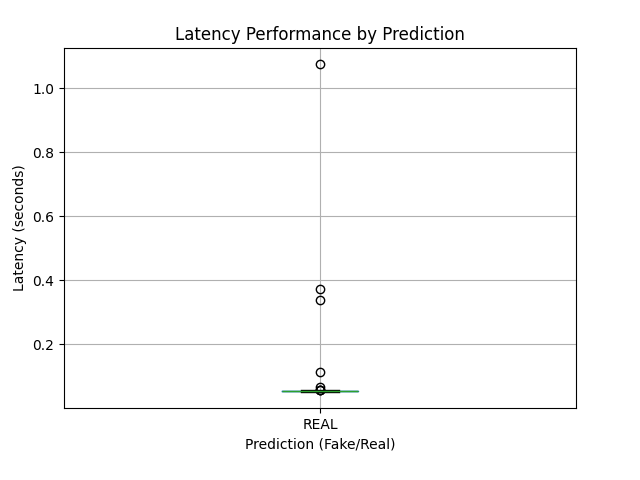
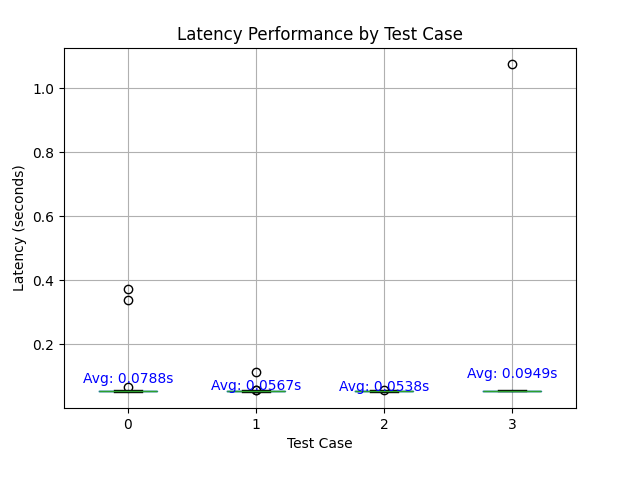
updated plot

diff --git a/box_plot.py b/box_plot.py
@@ -4,13 +4,21 @@ import matplotlib.pyplot as plt
 # Load the CSV file
 df = pd.read_csv('latency_results.csv')
 
-# Create a boxplot for latency
-plt.figure(figsize=(10, 6))
-df.boxplot(column='Latency (s)', by='Prediction')
-plt.title('Latency Performance by Prediction')
-plt.suptitle('')  # Suppress the automatic title to clean up the plot
-plt.xlabel('Prediction (Fake/Real)')
+df['Test Case'] = df.groupby('Text').ngroup()
+
+# Create a boxplot for each test case
+plt.figure(figsize=(12, 8))
+df.boxplot(column='Latency (s)', by='Test Case')
+plt.title('Latency Performance by Test Case')
+plt.suptitle('')
+plt.xlabel('Test Case')
 plt.ylabel('Latency (seconds)')
 
+# Calculate and annotate the average performance for each test case
+avg_latency = df.groupby('Test Case')['Latency (s)'].mean()
+
+for test_case, avg in avg_latency.items():
+    plt.text(test_case + 1, avg, f'Avg: {avg:.4f}s', horizontalalignment='center', color='blue')
+
 # Save the plot to a file
-plt.savefig('latency_performance_boxplot.png')  # This saves it to the same folder as your script
+plt.savefig('latency_performance_boxplot.png')
